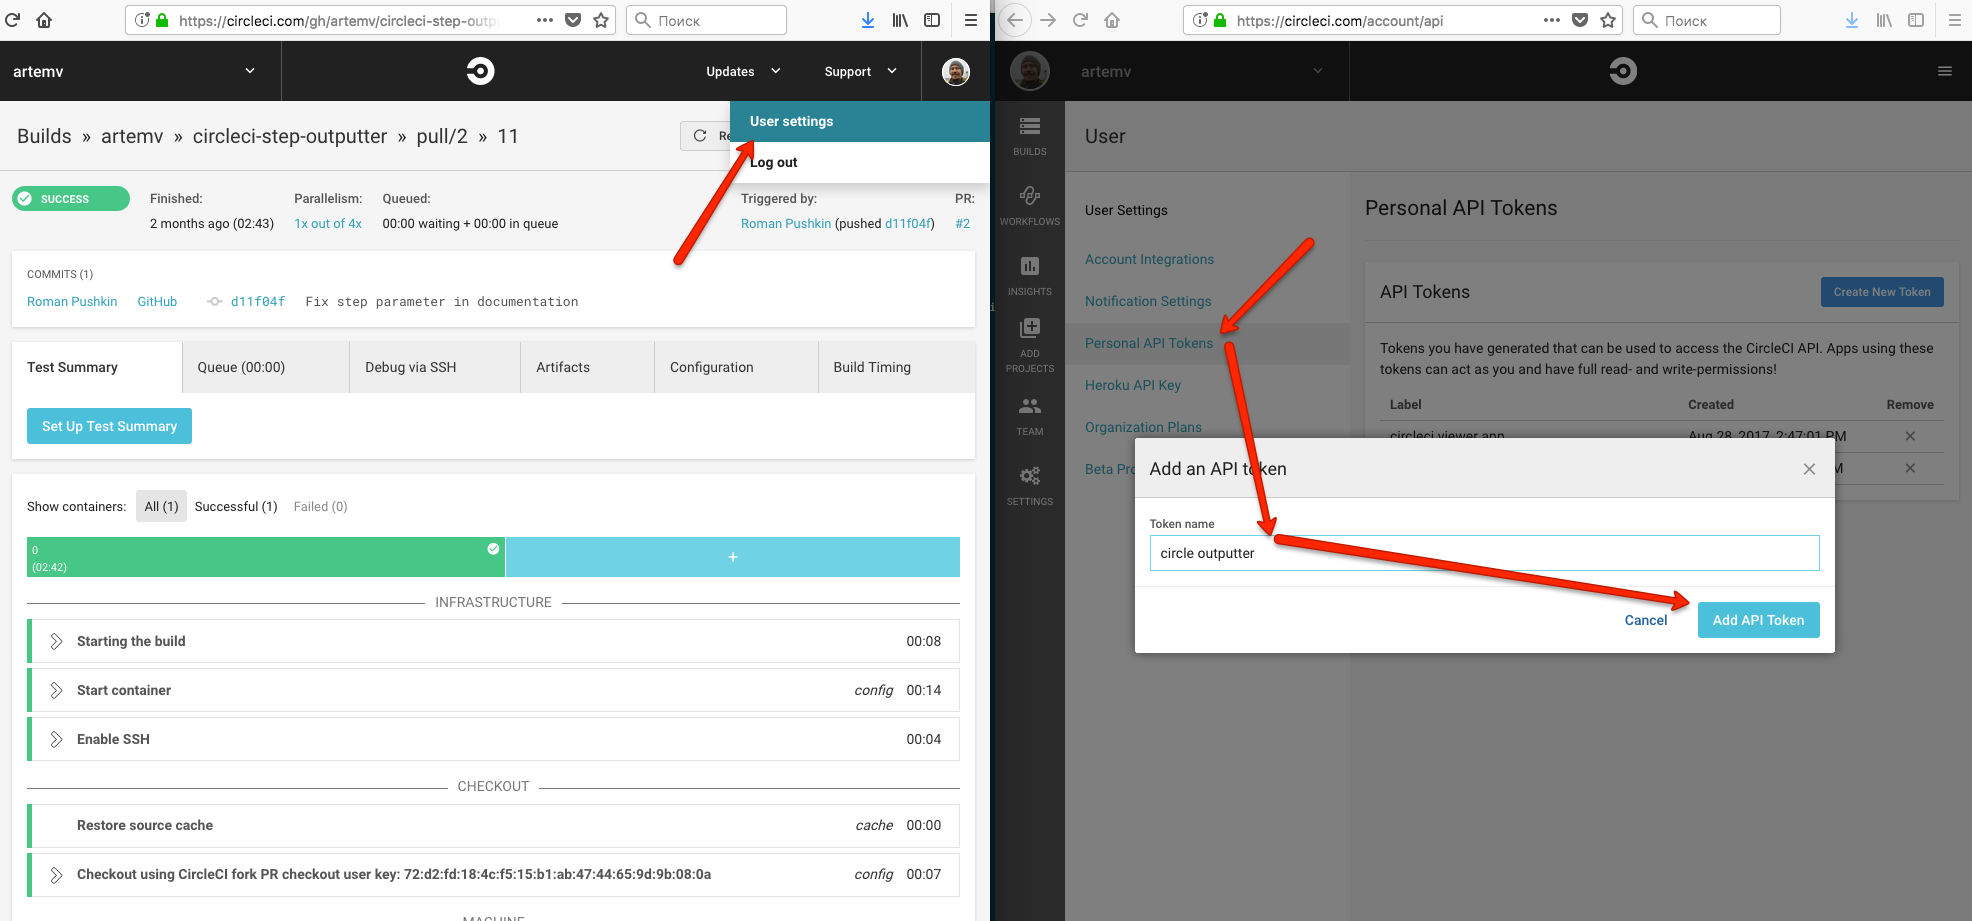
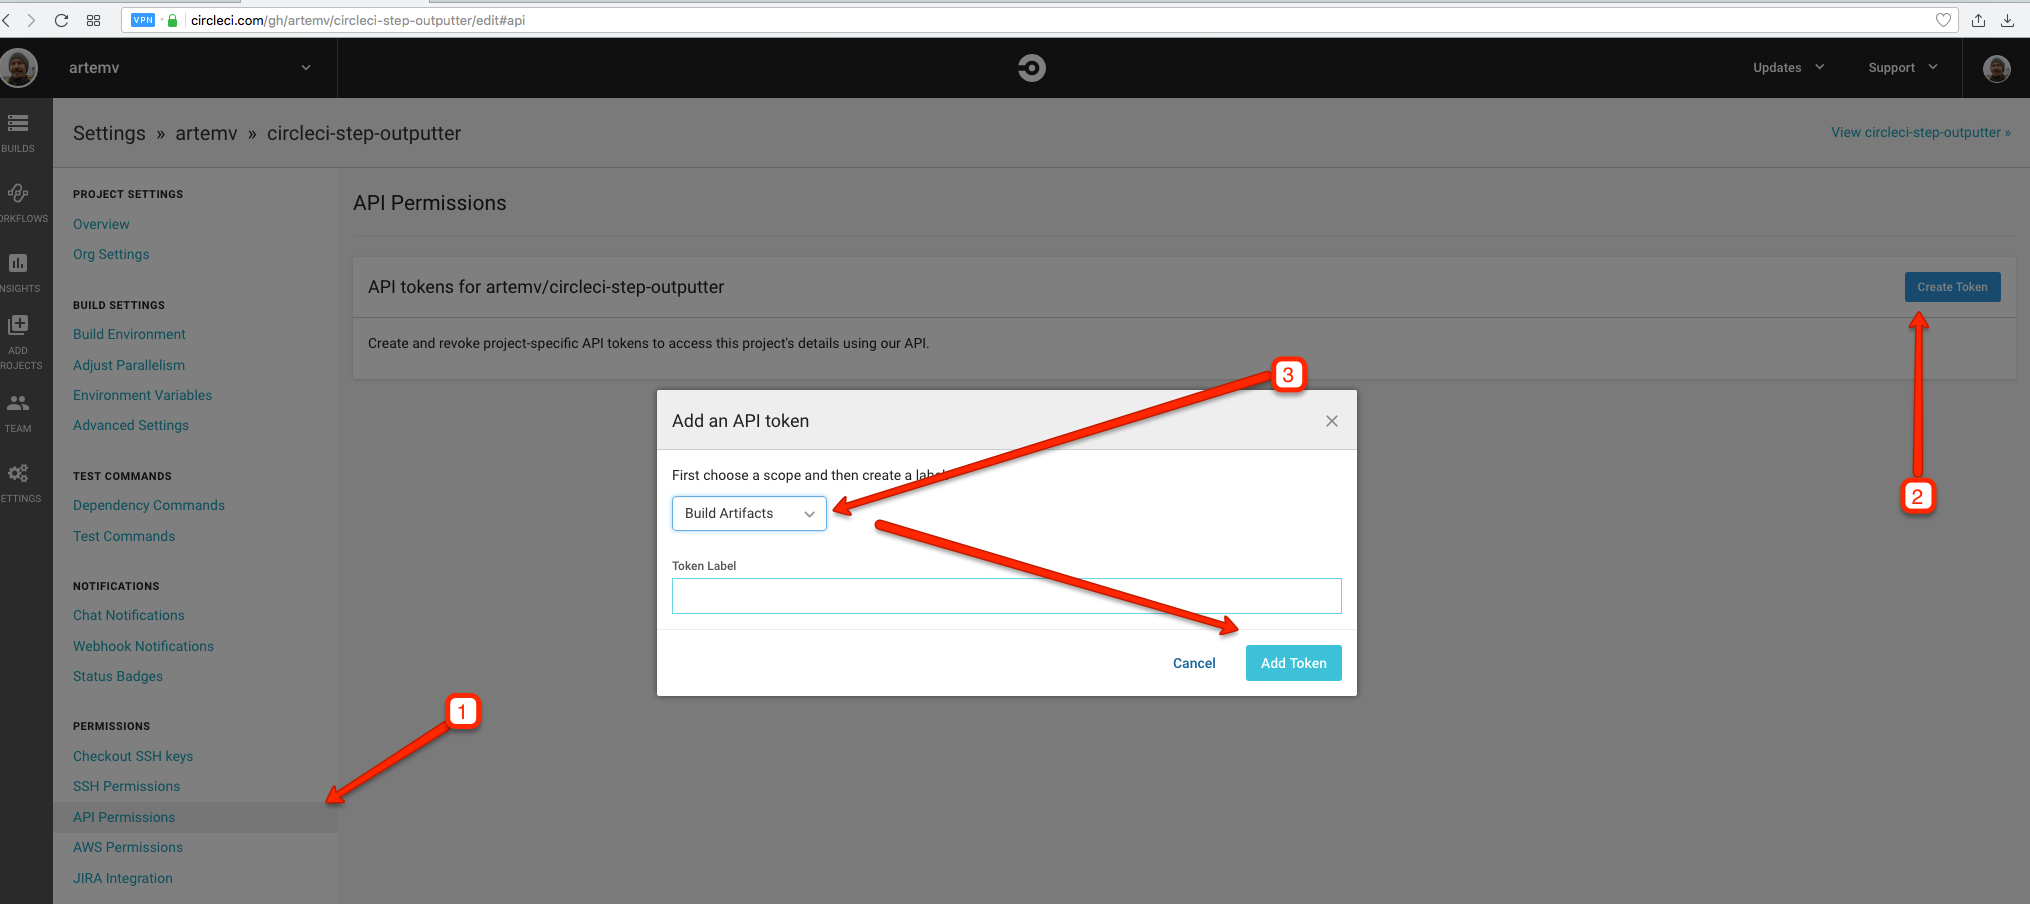
chore(ci): a better api token generation steps
We can now use project-scoped api tokens at circleci, cool stuff. Heroku & github, catch up!

diff --git a/readme.md b/readme.md
@@ -36,7 +36,7 @@ $ circle-step-outputter --help
   multiple actions in the step (usually parallel actions).
 ```
 For public/open source projects specifying `token` is not needed - you only need to do it for private projects. You can 
-generate the token here: ![api token screens](docs/api_token.png "api token screens")
+generate the token here: ![api token creation](docs/api_token.png "api token creation")
 
 ## API
 
